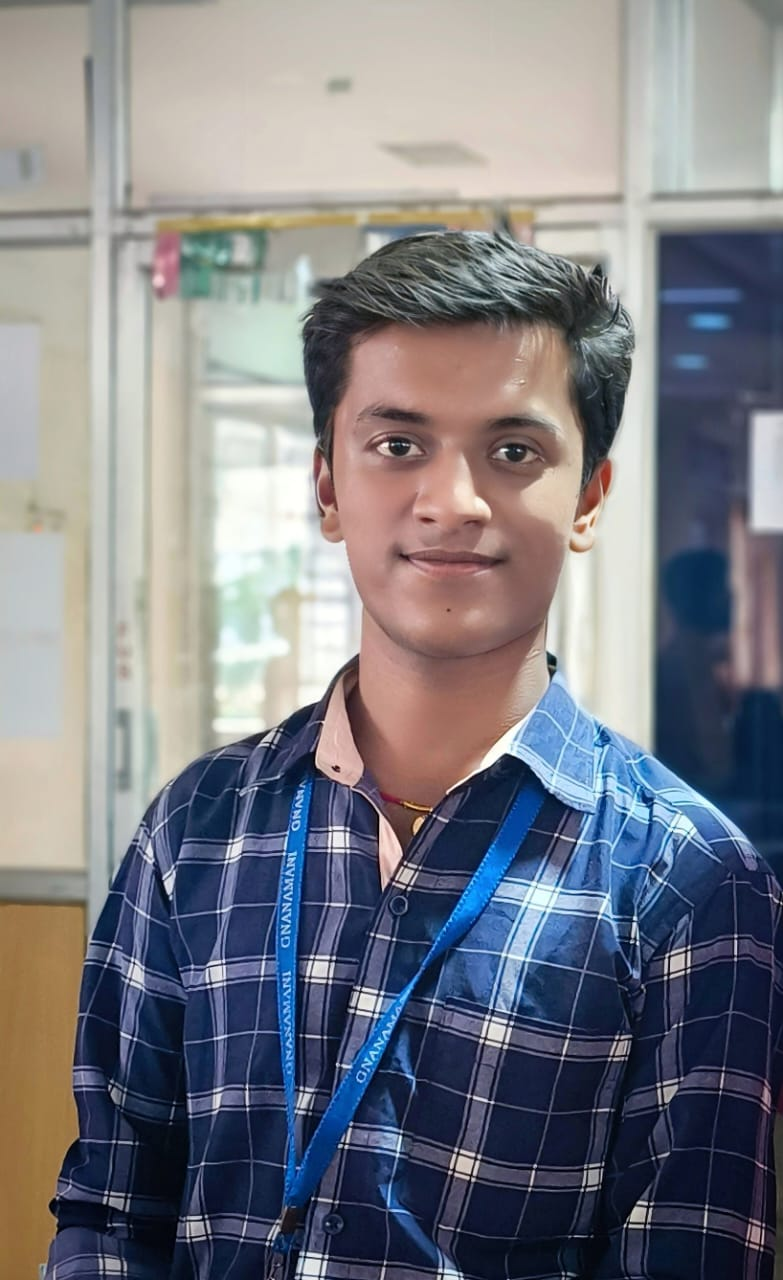
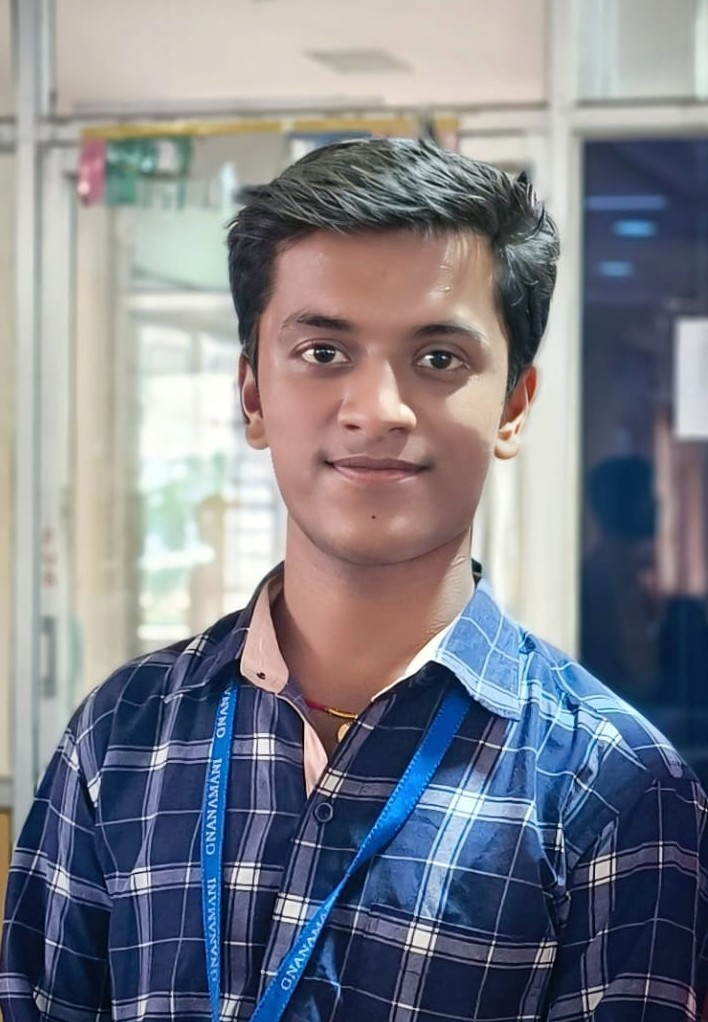
photo updated

diff --git a/src/components/Organizers.jsx b/src/components/Organizers.jsx
@@ -4,6 +4,7 @@ import { useEffect, useRef, useState } from 'react';
 import cp from '../assets/images/visinors/cp.jpg'
 import cps from '../assets/images/visinors/cps.png'
 import vsp from '../assets/images/visinors/vsp.jpg'
+import fc from '../assets/images/visinors/fc.jpg'
 
 import ganpat from '../assets/images/teamheader/ganpat.jpg'
 import naveen from '../assets/images/teamheader/Naveen.jpg'
@@ -13,7 +14,7 @@ const organizers = [
   { name: 'Dr. T. Arangannal', role: 'Chairman', linkedin: '#', email: '#',image:cp },
   { name: 'Mrs. P. Malaleena', role: 'Chairperson', linkedin: '#', email: '#',image:cps },
   { name: 'Ms. Madhuvanthinie Arangannal', role: 'Vice-Chairperson', linkedin: '#', email: '#',image:vsp },
-  { name: 'eamims Kumar', role: 'Faculty Coordinator', linkedin: '#', email: '#',image:'https://media.istockphoto.com/id/2197572485/photo/neon-user-profile-icon-glowing-neon-line-blue-color-user-profile-or-people-icon-on-the-black.webp?a=1&b=1&s=612x612&w=0&k=20&c=-KytgoTnbHoI6ULud6SanIvo2euK11udwAPSOvSn5fU=' }
+  { name: 'Gopinath S', role: 'Faculty Coordinator', linkedin: '#', email: '#',image:fc }
 ];
 
 const socialClubMembers = [

diff --git a/src/components/HeroSection2.jsx b/src/components/HeroSection2.jsx
@@ -85,7 +85,7 @@ const HeroSection2 = () => {
           href="https://gct.org.in/"
           className="bg-blue-500 text-white px-4 py-3 sm:px-6 sm:py-4 rounded-r-full text-sm sm:text-lg font-semibold shadow-lg transition hover:bg-blue-600"
         >
-          Visit Site
+          Main Site
         </motion.a>
       </div>
       
